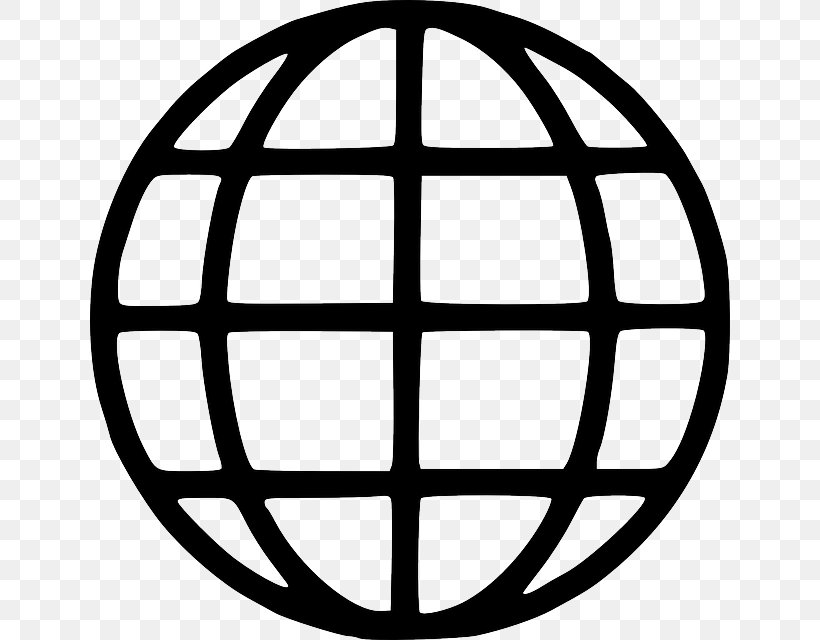
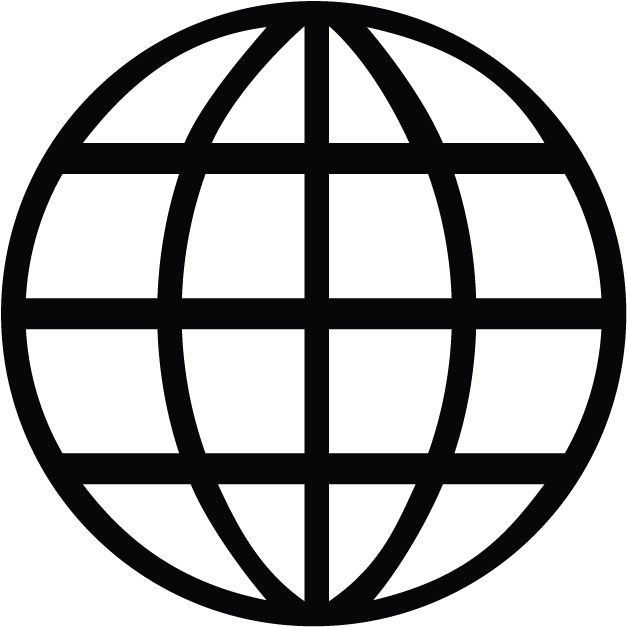
Replace images and add style to content box #2
Replace images of the internet and community so the transparent
background does not show. Add max-width and center content box #2
with margin-left and margin-right auto. Add padding to text and
replace content box #1 image

Changed region(s): [[0.0, 0.0, 1.0, 1.0]]

diff --git a/styles.css b/styles.css
@@ -47,10 +47,17 @@ body {
 .content2 {
     display: flex;
     flex-direction: column;
+    padding-top: 30px;
+    max-width: 700px;
+    margin-left: auto;
+    margin-right: auto;
 }
 .random-info {
     display: flex;
     justify-content: center;
+    padding-bottom: 20px;
+    font-weight: bold;
+    font-size: 28px;
 }
 .sections {
     display: flex;
